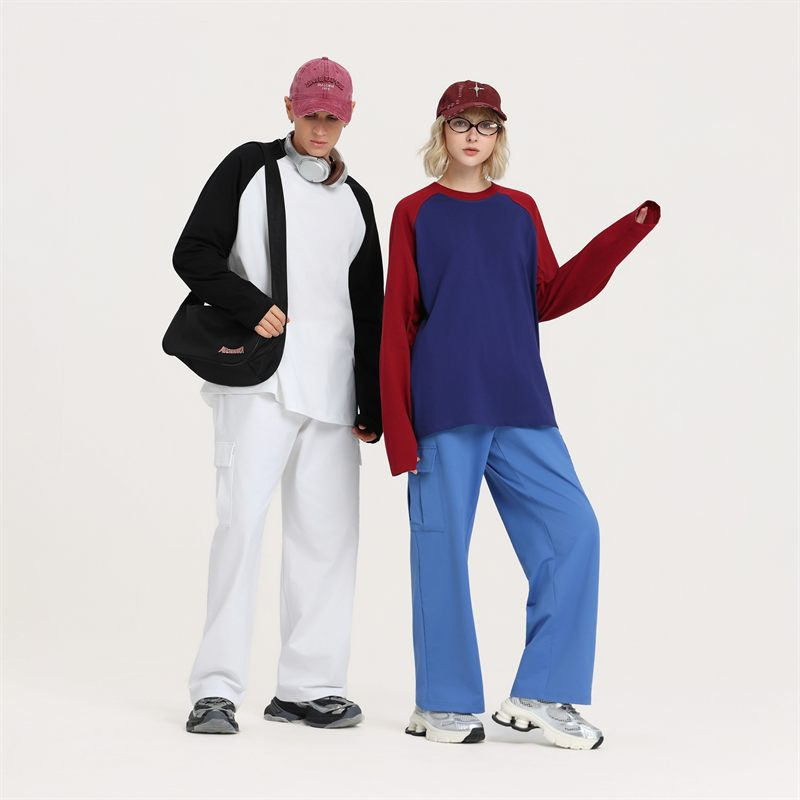
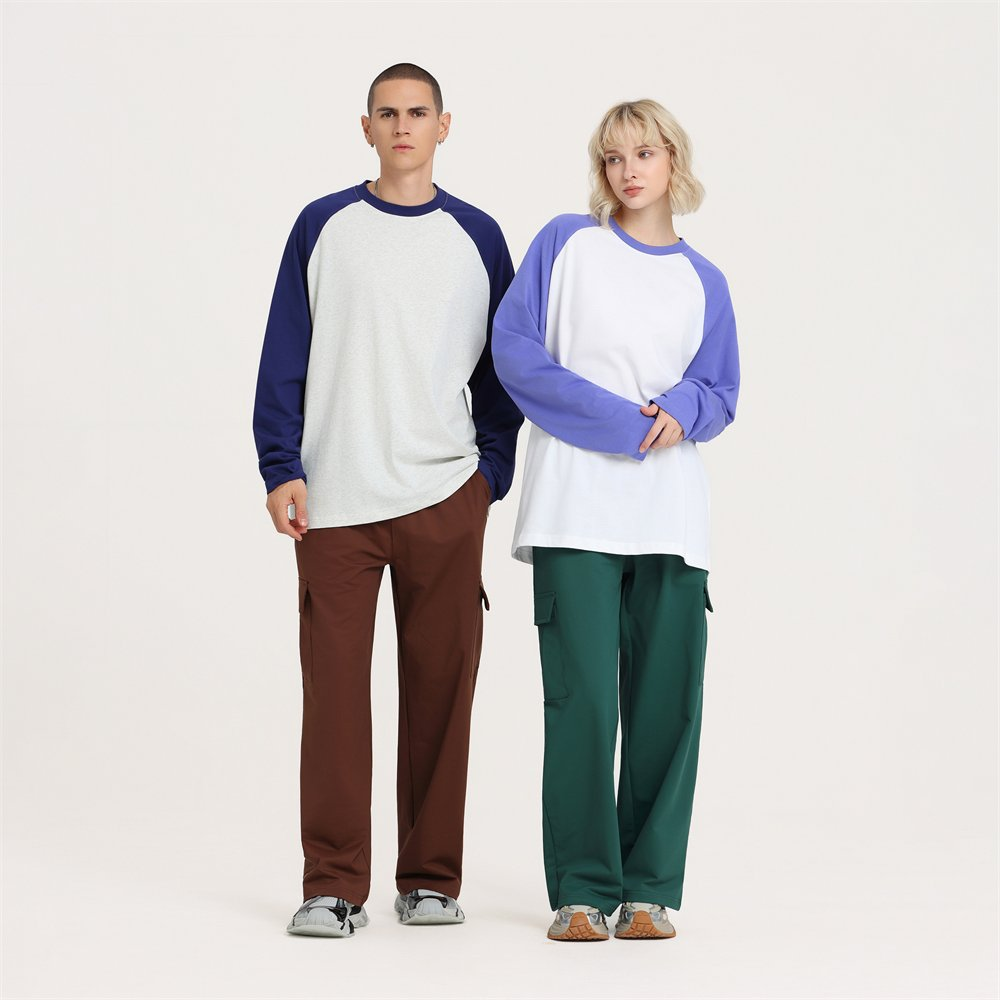
feat(product): fully complete T235 235G raglan long-sleeve tee with 9 authentic SKUs, size chart, try-on guide, 8 craft specs, and editorial lookbook

diff --git a/products_data.js b/products_data.js
@@ -1,4 +1,4 @@
-window.PRODUCTS_DATA = {
+window.PRODUCTS_DATA = {
     "T012":  {
                  "id":  "T012",
                  "name":  "T012 240G Raglan Sleeve Boxy Tee",
@@ -337,11 +337,11 @@ window.PRODUCTS_DATA = {
                  "id":  "T040",
                  "specs":  [
                                "245 GSM 100% Combed Compact Cotton - Authentic Streetwear Heavyweight Knit",
-                               "Oversized 90s Vintage Drop-Shoulder Boxy Silhouette, Pre-Shrunk (< 2%)",
-                               "High-Density 3.0cm Anti-Deformation Ribbed Crewneck & Internal Bound Taping",
-                               "Reinforced Twin-Needle Clean Stitching on Shoulders, Sleeves & Hem",
-                               "Reactive Colorfast Dyeing - High Breathability & Structured Natural Drape",
-                               "Full 6-Colorway Stock - 1-Piece Custom Tech Pack Sample & Flexible OEM Ready"
+                               "Oversized 90s Vintage Drop-Shoulder Boxy Silhouette, Pre-Shrunk (\u003c 2%)",
+                               "High-Density 3.0cm Anti-Deformation Ribbed Crewneck \u0026 Internal Bound Taping",
+                               "Reinforced Twin-Needle Clean Stitching on Shoulders, Sleeves \u0026 Hem",
+                               "Reactive Colorfast Dyeing - High Breathability \u0026 Structured Natural Drape",
+                               "Full 6-Colorway Stock - 1-Piece Custom Tech Pack Sample \u0026 Flexible OEM Ready"
                            ],
                  "color":  "6 Colorways",
                  "skus":  [
@@ -397,72 +397,85 @@ window.PRODUCTS_DATA = {
                                  "assets/products/T235/main/1.jpg",
                                  "assets/products/T235/main/2.jpg",
                                  "assets/products/T235/main/3.jpg",
-                                 "assets/products/T235/main/4.jpg"
+                                 "assets/products/T235/main/4.jpg",
+                                 "assets/products/T235/main/5.jpg",
+                                 "assets/products/T235/main/6.jpg"
                              ],
                  "id":  "T235",
                  "specs":  [
-                               "235 GSM Combed Cotton - Authentic Streetwear Heavyweight Knit",
-                               "Oversized 90s Vintage Drop-Shoulder Silhouette, Pre-Shrunk (\u003c 2%)",
-                               "High-Density Anti-Deformation Ribbing \u0026 Reinforced Twin-Needle Seams",
-                               "Durable Colorfast Reactive Dyeing - High Breathability \u0026 Structured Drape",
-                               "Full Colorway Stock - 1-Piece Sample Proofing \u0026 Flexible OEM Tech Pack Ready"
+                               "235 GSM Combed Compact Double-Yarn Cotton (32S/2, Pre-Shrunk \u003c 2%)",
+                               "90s Vintage Athletic Raglan Contrast Long-Sleeve Silhouette, Boxy Drop Cut",
+                               "High-Density Bound Back Collar Taping \u0026 Reinforced Twin-Needle Seams",
+                               "9 Two-Tone Vintage Contrast Colorways - Pure Reactive Dyeing, Zero Fade",
+                               "1-Piece Custom Tech Pack Ready · Full Bulk Inventory \u0026 Quick Turnaround"
                            ],
-                 "color":  "9 Colorways",
+                 "color":  "9 Two-Tone Contrast Colorways",
                  "skus":  [
                               {
-                                  "thumb":  "assets/products/T235/sku/sku_1.jpg",
-                                  "hero":  "assets/products/T235/sku/sku_1.jpg",
-                                  "name":  "Washed Black"
+                                  "name":  "White / Black (熊猫白黑)",
+                                  "thumb":  "assets/products/T235/sku/sku_white_black.jpg",
+                                  "hero":  "assets/products/T235/sku/sku_white_black.jpg",
+                                  "back":  "assets/products/T235/sku/sku_white_black_back.jpg"
                               },
                               {
-                                  "thumb":  "assets/products/T235/sku/sku_2.jpg",
-                                  "hero":  "assets/products/T235/sku/sku_2.jpg",
-                                  "name":  "Charcoal Grey"
+                                  "name":  "White / Periwinkle Blue (纯白长春花蓝)",
+                                  "thumb":  "assets/products/T235/sku/sku_white_periwinkle.jpg",
+                                  "hero":  "assets/products/T235/sku/sku_white_periwinkle.jpg",
+                                  "back":  "assets/products/T235/sku/sku_white_periwinkle_back.jpg"
                               },
                               {
-                                  "thumb":  "assets/products/T235/sku/sku_3.jpg",
-                                  "hero":  "assets/products/T235/sku/sku_3.jpg",
-                                  "name":  "Washed Black"
+                                  "name":  "Navy Blue / Crimson Red (藏蓝复古深红)",
+                                  "thumb":  "assets/products/T235/sku/sku_navy_crimson.jpg",
+                                  "hero":  "assets/products/T235/sku/sku_navy_crimson.jpg",
+                                  "back":  "assets/products/T235/sku/sku_navy_crimson_back.jpg"
                               },
                               {
-                                  "thumb":  "assets/products/T235/sku/sku_4.jpg",
-                                  "hero":  "assets/products/T235/sku/sku_4.jpg",
-                                  "name":  "Charcoal Grey"
+                                  "name":  "Oatmeal Grey / Navy Blue (燕麦灰藏蓝)",
+                                  "thumb":  "assets/products/T235/sku/sku_oatmeal_navy.jpg",
+                                  "hero":  "assets/products/T235/sku/sku_oatmeal_navy.jpg",
+                                  "back":  "assets/products/T235/sku/sku_oatmeal_navy_back.jpg"
                               },
                               {
-                                  "thumb":  "assets/products/T235/sku/sku_5.jpg",
-                                  "hero":  "assets/products/T235/sku/sku_5.jpg",
-                                  "name":  "Navy Blue"
+                                  "name":  "Oatmeal Grey / Crimson Red (燕麦灰深红)",
+                                  "thumb":  "assets/products/T235/sku/sku_oatmeal_crimson.jpg",
+                                  "hero":  "assets/products/T235/sku/sku_oatmeal_crimson.jpg",
+                                  "back":  "assets/products/T235/sku/sku_oatmeal_crimson_back.jpg"
                               },
                               {
-                                  "thumb":  "assets/products/T235/sku/sku_6.jpg",
-                                  "hero":  "assets/products/T235/sku/sku_6.jpg",
-                                  "name":  "Off-White"
+                                  "name":  "Off-White / Khaki (米白复古卡其)",
+                                  "thumb":  "assets/products/T235/sku/sku_offwhite_khaki.jpg",
+                                  "hero":  "assets/products/T235/sku/sku_offwhite_khaki.jpg",
+                                  "back":  "assets/products/T235/sku/sku_offwhite_khaki_back.jpg"
                               },
                               {
-                                  "thumb":  "assets/products/T235/sku/sku_7.jpg",
-                                  "hero":  "assets/products/T235/sku/sku_7.jpg",
-                                  "name":  "Washed Black"
+                                  "name":  "Khaki / Dark Grey (卡其炭深灰)",
+                                  "thumb":  "assets/products/T235/sku/sku_khaki_darkgrey.jpg",
+                                  "hero":  "assets/products/T235/sku/sku_khaki_darkgrey.jpg",
+                                  "back":  "assets/products/T235/sku/sku_khaki_darkgrey_back.jpg"
                               },
                               {
-                                  "thumb":  "assets/products/T235/sku/sku_8.jpg",
-                                  "hero":  "assets/products/T235/sku/sku_8.jpg",
-                                  "name":  "Off-White"
+                                  "name":  "Dark Grey / Black (深灰曜石黑)",
+                                  "thumb":  "assets/products/T235/sku/sku_darkgrey_black.jpg",
+                                  "hero":  "assets/products/T235/sku/sku_darkgrey_black.jpg",
+                                  "back":  "assets/products/T235/sku/sku_darkgrey_black_back.jpg"
                               },
                               {
-                                  "thumb":  "assets/products/T235/sku/sku_9.jpg",
-                                  "hero":  "assets/products/T235/sku/sku_9.jpg",
-                                  "name":  "Navy Blue"
+                                  "name":  "Dark Purple / Black (暗夜乌紫拼黑)",
+                                  "thumb":  "assets/products/T235/sku/sku_darkpurple_black.jpg",
+                                  "hero":  "assets/products/T235/sku/sku_darkpurple_black.jpg",
+                                  "back":  "assets/products/T235/sku/sku_darkpurple_black_back.jpg"
                               }
                           ],
                  "category":  "tee",
                  "detailImages":  [
-                                      "assets/products/T235/detail/1.jpg",
-                                      "assets/products/T235/detail/2.jpg",
-                                      "assets/products/T235/detail/3.jpg",
-                                      "assets/products/T235/detail/4.jpg",
-                                      "assets/products/T235/detail/5.jpg",
-                                      "assets/products/T235/detail/6.jpg"
+                                      "assets/products/T235/detail/detail_1.jpg",
+                                      "assets/products/T235/detail/detail_2.jpg",
+                                      "assets/products/T235/detail/detail_3.jpg",
+                                      "assets/products/T235/detail/detail_4.jpg",
+                                      "assets/products/T235/detail/detail_5.jpg",
+                                      "assets/products/T235/detail/detail_6.jpg",
+                                      "assets/products/T235/detail/detail_7.jpg",
+                                      "assets/products/T235/detail/detail_8.jpg"
                                   ],
                  "priceUSD":  17.5,
                  "name":  "T235 235G Oversized Raglan Long-Sleeve Street Tee",

diff --git a/app.js b/app.js
@@ -712,6 +712,91 @@ function renderDynamicLookbook(prod) {
         <small class="pdp-table-tip">Note: Hand-measured specifications. Flat measurement tolerance within ±1-2cm.</small>
       </div>
     `;
+  } else if (prod.id === 'T235') {
+    sizeGuideHtml = `
+      <div class="pdp-size-tables-card t040-size-card">
+        <div class="table-header">
+          <span class="table-tag">OFFICIAL TECH SIZING &amp; TRY-ON</span>
+          <h4>T235 235G Oversized Raglan Long-Sleeve - Sizing &amp; Measurement Guide</h4>
+        </div>
+
+        <!-- Model Try-On Card -->
+        <div class="t040-models-badge-row">
+          <div class="model-stat-pill">
+            <span class="m-avatar">👨</span>
+            <div class="m-info">
+              <strong>Denis (Male Model)</strong>
+              <small>188cm / 77kg · Wearing XL · Loose Street Fit</small>
+            </div>
+          </div>
+          <div class="model-stat-pill">
+            <span class="m-avatar">👩</span>
+            <div class="m-info">
+              <strong>Model (Female)</strong>
+              <small>172cm / 52kg · Wearing L · Oversized Drop Fit</small>
+            </div>
+          </div>
+        </div>
+
+        <!-- Garment Measurements Table -->
+        <h5 class="sub-table-title">📏 Garment Dimensions (Flat Measurement / cm &amp; in)</h5>
+        <div class="pdp-table-wrap">
+          <table class="pdp-spec-table">
+            <thead>
+              <tr>
+                <th>Size</th>
+                <th>Length (衣长)</th>
+                <th>Chest (胸围)</th>
+                <th>Raglan Sleeve (插肩袖长)</th>
+                <th>Fit Profile</th>
+              </tr>
+            </thead>
+            <tbody>
+              <tr><td><strong>S</strong></td><td>72 cm (28.3")</td><td>114 cm (44.9")</td><td>76 cm (29.9")</td><td>Relaxed Street</td></tr>
+              <tr><td><strong>M</strong></td><td>75 cm (29.5")</td><td>120 cm (47.2")</td><td>78 cm (30.7")</td><td>Boxy Drop Shoulder</td></tr>
+              <tr><td><strong>L</strong></td><td>78 cm (30.7")</td><td>126 cm (49.6")</td><td>80 cm (31.5")</td><td>Authentic Oversized</td></tr>
+              <tr class="highlight-row"><td><strong>XL</strong></td><td>81 cm (31.9")</td><td>134 cm (52.8")</td><td>82 cm (32.3")</td><td>90s Vintage Baggy (Denis Fit)</td></tr>
+              <tr><td><strong>2XL</strong></td><td>83 cm (32.7")</td><td>142 cm (55.9")</td><td>84 cm (33.1")</td><td>Max Plus Size Loose</td></tr>
+            </tbody>
+          </table>
+        </div>
+
+        <!-- Height & Weight Recommended Fit Table -->
+        <h5 class="sub-table-title">⚖ Height &amp; Weight Recommendations (建议尺码)</h5>
+        <div class="pdp-table-wrap">
+          <table class="pdp-spec-table">
+            <thead>
+              <tr>
+                <th>Size</th>
+                <th>Suggested Height</th>
+                <th>Suggested Weight</th>
+                <th>Fit Profile</th>
+              </tr>
+            </thead>
+            <tbody>
+              <tr><td><strong>S</strong></td><td>160 - 170 cm</td><td>50 - 58 kg (110-128 lbs)</td><td>Relaxed Street</td></tr>
+              <tr><td><strong>M</strong></td><td>170 - 176 cm</td><td>58 - 68 kg (128-150 lbs)</td><td>Boxy Drop Shoulder</td></tr>
+              <tr><td><strong>L</strong></td><td>175 - 182 cm</td><td>68 - 78 kg (150-172 lbs)</td><td>Authentic Oversized</td></tr>
+              <tr class="highlight-row"><td><strong>XL</strong></td><td>180 - 188 cm</td><td>78 - 90 kg (172-198 lbs)</td><td>Skatewear 90s Vintage Baggy</td></tr>
+              <tr><td><strong>2XL</strong></td><td>185 - 195 cm</td><td>90 - 110 kg (198-242 lbs)</td><td>Max Statement Oversized</td></tr>
+            </tbody>
+          </table>
+        </div>
+
+        <!-- Visual Size Chart Image Cards -->
+        <div class="t040-size-graphics-strip">
+          <a class="size-graphic-thumb" href="assets/products/T235/size/size_chart_garment.jpg" target="_blank">
+            <img src="assets/products/T235/size/size_chart_garment.jpg" alt="T235 Garment Size Chart &amp; Measurements" loading="lazy">
+            <span>🔍 View Original Measurement Chart</span>
+          </a>
+          <a class="size-graphic-thumb" href="assets/products/T235/size/size_chart_recommend.jpg" target="_blank">
+            <img src="assets/products/T235/size/size_chart_recommend.jpg" alt="T235 Height &amp; Weight Recommendations" loading="lazy">
+            <span>🔍 View Height &amp; Weight Guide</span>
+          </a>
+        </div>
+        <small class="pdp-table-tip">Note: Hand-measured specifications. Flat measurement tolerance within ±1-2cm.</small>
+      </div>
+    `;
   } else if (prod.category === 'pants') {
     sizeGuideHtml = `
       <div class="pdp-size-tables-card">
@@ -863,6 +948,58 @@ function renderDynamicLookbook(prod) {
       'assets/products/T040/editorial/model_15.jpg',
       'assets/products/T040/editorial/model_16.jpg'
     ];
+  } else if (prod.id === 'T235') {
+    const craftDetails = [
+      { img: 'assets/products/T235/detail/detail_1.jpg', title: '01 领口拼接', desc: 'Double-Stitched Contrast Ribbed Collar & Raglan Join' },
+      { img: 'assets/products/T235/detail/detail_2.jpg', title: '02 后领压条', desc: 'Clean Back Collar Bound Taping & Reinforced Seams' },
+      { img: 'assets/products/T235/detail/detail_3.jpg', title: '03 袖口做工', desc: 'Twin-Needle Clean Edge Sleeve Cuffs (Fitted Openings)' },
+      { img: 'assets/products/T235/detail/detail_4.jpg', title: '04 挺括垂坠', desc: '235 GSM Heavyweight Cotton - Structured Anti-Wrinkle Drape' },
+      { img: 'assets/products/T235/detail/detail_5.jpg', title: '05 领标质感', desc: '100% Combed Cotton Tech Pack Spec Label (Pre-Shrunk < 2%)' },
+      { img: 'assets/products/T235/detail/detail_6.jpg', title: '06 下摆双针', desc: 'Reinforced Bottom Hem Double-Needle Lockstitching' },
+      { img: 'assets/products/T235/detail/detail_7.jpg', title: '07 密实落差', desc: 'Heavy Fabric Gauge Wave & High Tensile Tear Resistance' },
+      { img: 'assets/products/T235/detail/detail_8.jpg', title: '08 紧密双纱', desc: '32S/2 Double-Yarn Compact Combed Cotton Textile Weave' }
+    ];
+
+    extraCraftHtml = `
+      <div class="pdp-size-tables-card t040-craft-card">
+        <div class="table-header">
+          <span class="table-tag">FACTORY CRAFTSMANSHIP</span>
+          <h4>Product Details &amp; Macro Fabric Craft (8 Core Specs)</h4>
+          <p style="font-size: 11px; color: #64748b; margin-top: 3px;">235 GSM combed compact cotton, contrast raglan joins, and colorfast reactive dye</p>
+        </div>
+        <div class="macro-craft-grid">
+          ${craftDetails.map(c => `
+            <div class="macro-craft-item">
+              <img src="${c.img}" alt="${c.title}" loading="lazy">
+              <div class="macro-craft-caption">
+                <strong>${c.title}</strong>
+                <small>${c.desc}</small>
+              </div>
+            </div>
+          `).join('')}
+        </div>
+      </div>
+    `;
+
+    // 16 full editorial lookbook shots
+    lookbookImages = [
+      'assets/products/T235/editorial/model_1.jpg',
+      'assets/products/T235/editorial/model_2.jpg',
+      'assets/products/T235/editorial/model_3.jpg',
+      'assets/products/T235/editorial/model_4.jpg',
+      'assets/products/T235/editorial/model_5.jpg',
+      'assets/products/T235/editorial/model_6.jpg',
+      'assets/products/T235/editorial/model_7.jpg',
+      'assets/products/T235/editorial/model_8.jpg',
+      'assets/products/T235/editorial/model_9.jpg',
+      'assets/products/T235/editorial/model_10.jpg',
+      'assets/products/T235/editorial/model_11.jpg',
+      'assets/products/T235/editorial/model_12.jpg',
+      'assets/products/T235/editorial/model_13.jpg',
+      'assets/products/T235/editorial/model_14.jpg',
+      'assets/products/T235/editorial/model_15.jpg',
+      'assets/products/T235/editorial/model_16.jpg'
+    ];
   }
 
   const imagesHtml = lookbookImages.map((src, i) => `
@@ -882,15 +1019,15 @@ function renderDynamicLookbook(prod) {
     <!-- Size Guide Card -->
     ${sizeGuideHtml}
 
-    <!-- Extra Craft Details for T040 -->
+    <!-- Extra Craft Details for T040 & T235 -->
     ${extraCraftHtml}
 
     <!-- Editorial Lookbook Gallery -->
     <div class="pdp-editorial-gallery">
       <div class="gallery-title-box">
         <span class="g-tag">LOOKBOOK GALLERY</span>
-        <h3>${prod.id === 'T040' ? 'Editorial Street Lookbook (16 Shots)' : 'Product Details &amp; Macro Fabric Craft'}</h3>
-        <p>${prod.id === 'T040' ? 'Full Streetwear Outfit On-Model Demonstrations &amp; Colorway Silhouettes' : 'High-density weave, reinforced seams, and colorfast reactive dye detail'}</p>
+        <h3>${(prod.id === 'T040' || prod.id === 'T235') ? 'Editorial Street Lookbook (16 Shots)' : 'Product Details &amp; Macro Fabric Craft'}</h3>
+        <p>${(prod.id === 'T040' || prod.id === 'T235') ? 'Full Streetwear Outfit On-Model Demonstrations &amp; Colorway Silhouettes' : 'High-density weave, reinforced seams, and colorfast reactive dye detail'}</p>
       </div>
       ${imagesHtml}
     </div>
@@ -906,8 +1043,9 @@ function closeProductDetail() {
 function switchPdpHero(imgSrc, index) {
   const mainImg = document.getElementById('pdpMainImg');
   const counter = document.getElementById('pdpImgCounter');
+  const total = document.querySelectorAll('.pdp-thumb').length || 4;
   if (mainImg) mainImg.src = imgSrc;
-  if (counter && index) counter.textContent = `${index} / 4`;
+  if (counter && index) counter.textContent = `${index} / ${total}`;
 
   const thumbs = document.querySelectorAll('.pdp-thumb');
   thumbs.forEach((t, i) => {

diff --git a/index.html b/index.html
@@ -8,7 +8,7 @@
   <link rel="preconnect" href="https://fonts.googleapis.com">
   <link rel="preconnect" href="https://fonts.gstatic.com" crossorigin>
   <link href="https://fonts.googleapis.com/css2?family=Plus+Jakarta+Sans:wght@400;500;600;700;800&display=swap" rel="stylesheet">
-  <link rel="stylesheet" href="styles.css?v=39">
+  <link rel="stylesheet" href="styles.css?v=41">
 </head>
 <body class="theme-light">
   <!-- Mobile Viewport Wrapper (Native Fullscreen Mobile View) -->
@@ -1069,7 +1069,7 @@
   <!-- Floating Toast Notification -->
   <div class="app-toast" id="appToast">Notification</div>
 
-  <script src="products_data.js?v=39"></script>
-  <script src="app.js?v=39"></script>
+  <script src="products_data.js?v=41"></script>
+  <script src="app.js?v=41"></script>
 </body>
 </html>
